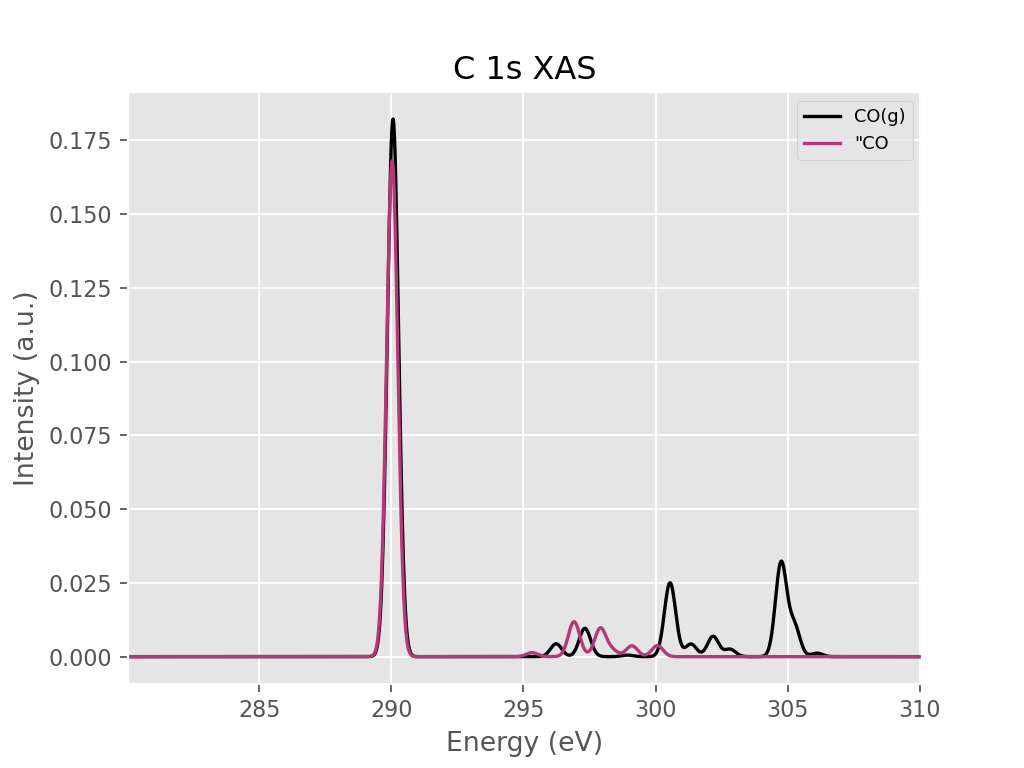
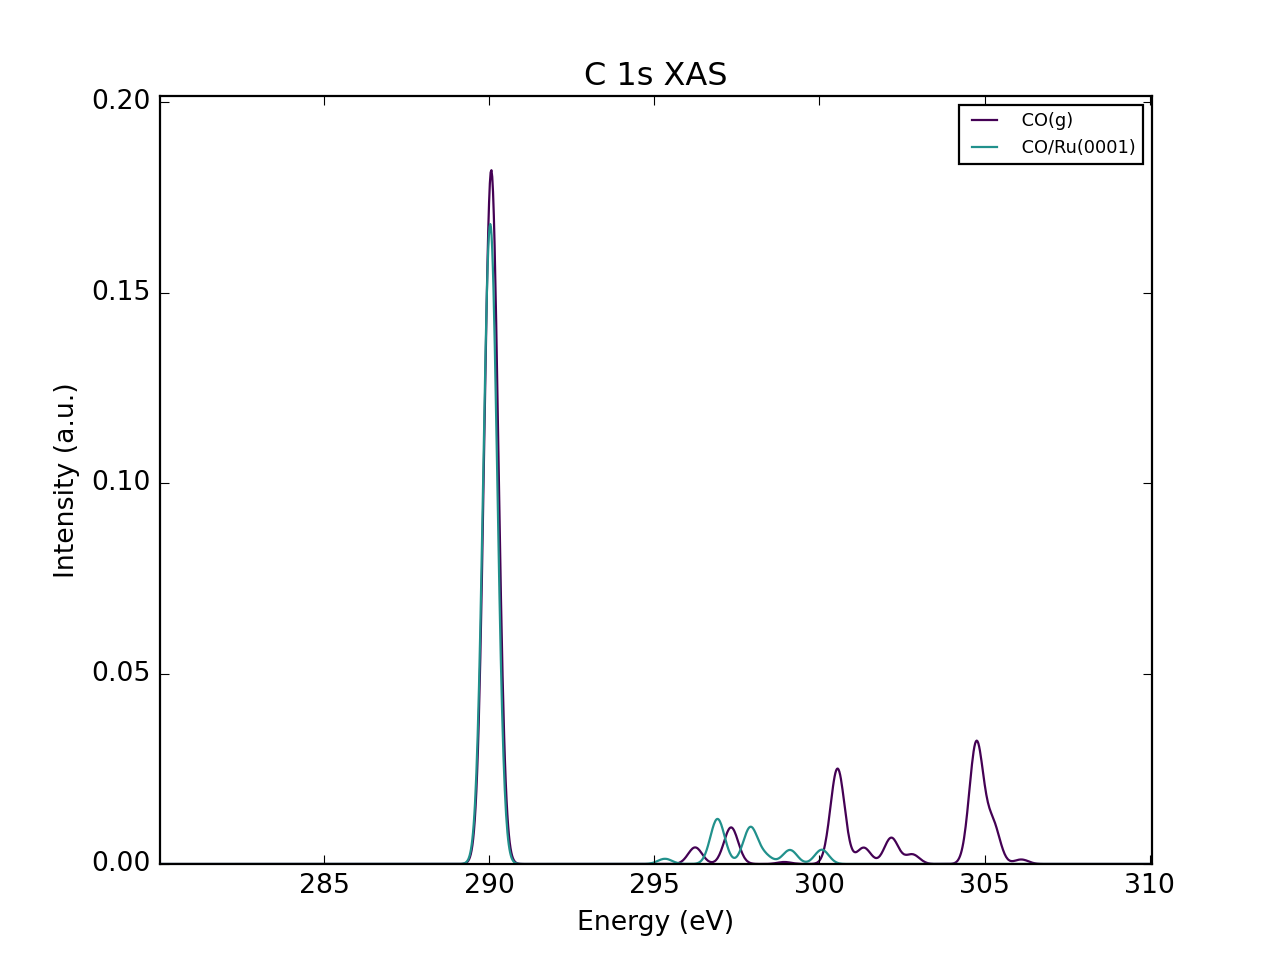
Increase default ym
Increased the default value of y(maximum) for better visualization.

diff --git a/plt_plot.py b/plt_plot.py
@@ -126,7 +126,7 @@ for idx,inp_name in enumerate(data_files):
 x_i = min(x_values)
 x_f = max(x_values)
 y_i = min(y_values)
-y_f = max(y_values)
+y_f = max(y_values)*1.2
 if args.xi:
 	x_i = float(args.xi)
 	x_f = float(args.xf)
